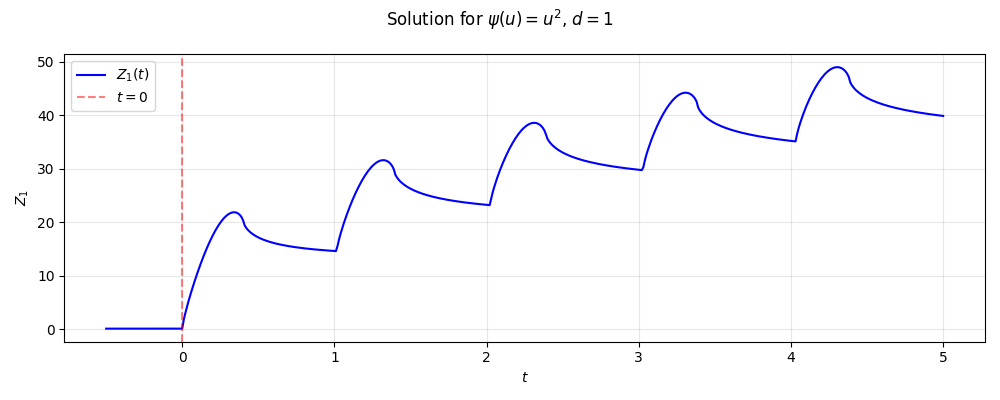
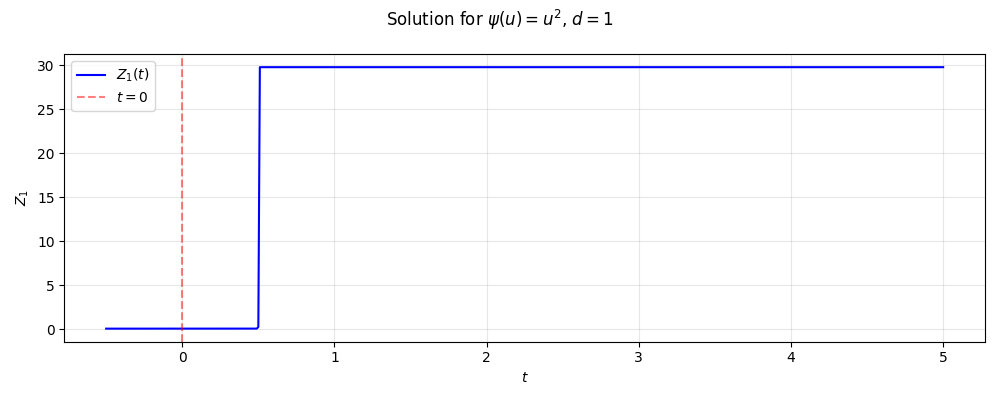
first implementation of local time

diff --git a/residence_time.py b/residence_time.py
@@ -1,6 +1,6 @@
 """
 Solver for the equation:
-    sum_{j>=1} psi'(Z^n - Z^{n-j}) * h = f^n
+h * sum_{j>=1} psi(Z^n - Z^{n-j}) * R_j = f^n
 
 where:
 - Z^n = z_p(n*h) for -N <= n < 0 (initial conditions)
@@ -15,8 +15,7 @@ import numpy as np
 import matplotlib.pyplot as plt
 from scipy.optimize import fsolve
 from typing import Callable, Tuple, Optional
-
-from animation import create_animation
+from tqdm import tqdm
 
 
 class VolterraSolver:
@@ -27,6 +26,8 @@ class VolterraSolver:
     def __init__(
         self,
         h: float,
+        delta_x: float,
+        N_x: int,
         N: int,
         M: int,
         d: int,
@@ -39,7 +40,11 @@ class VolterraSolver:
         Parameters:
         -----------
         h : float
-            Time step
+            Time step # delta_t
+        delta_x : float
+            Space step
+        N_x : int
+            Number of space points
         N : int
             Number of initial points (for n in [-N, 0)) # points for past history
         M : int
@@ -56,6 +61,8 @@ class VolterraSolver:
             Initial condition function z_p(t) for t < 0
         """
         self.h = h
+        self.delta_x = delta_x
+        self.N_x = N_x
         self.N = N
         self.M = M
         self.d = d
@@ -74,26 +81,31 @@ class VolterraSolver:
     def psi(self, u: np.ndarray) -> np.ndarray:
         """
         Nonlinearity psi(u) = u^alpha (component-wise).
+        Handles sign for non-integer alpha.
         """
-        return 0.5*u ** self.alpha
+        if self.alpha == int(self.alpha) and int(self.alpha) % 2 == 1:
+            # Odd integer power: preserve sign
+            return np.sign(u) * np.abs(u) ** self.alpha
+        else:
+            # Even power or non-integer: use absolute value
+            return np.abs(u) ** self.alpha
 
-    def psi_derivative(self, u: np.ndarray) -> np.ndarray:
-        return self.alpha*u**(self.alpha-1)
-    
-    
-    # Toute l'equation à comprendre et modifier est ici
+    # local time ###################################################################
+    def local_time(self, n, z):
+        local_time = 0
+        for i in range(0,n+1): #TODO: pb index, commencer par 1 plutôt ?
+            local_time = local_time + self.h * (i*self.delta_x <= z <= (i+1)*self.delta_x).astype(int)
+        return local_time
+
     def residual(self, Z_n: np.ndarray, n: int) -> np.ndarray:
         """
-        Compute residual: h * sum_{j>=1} psi'(Z^n - Z^{n-j}) * R_j - f^n
+        Compute residual: [Previous: h * sum_{j>=1} psi(Z^n - Z^{n-j}) * R_j - f^n]
         """
         res = np.zeros(self.d)
         
-        # Sum over j from 1 to n+N (all available past values)
-        for j in range(1, n + self.N + 1):
-            if j < len(self.R):
-                idx_prev = n + self.N - j
-                Z_diff = Z_n - self.Z[idx_prev]
-                res += self.h * self.psi_derivative(Z_diff) * self.R[j]
+        for k in range(0, self.N_x):
+            res = res + self.psi(Z_n - k*self.delta_x) * self.local_time(n, Z_n) * self.delta_x
+            # comment intégrer les poids exponentiels ?    #* self.R[j]
         
         # Subtract f^n
         res -= self.f_func(n * self.h)
@@ -128,7 +140,7 @@ class VolterraSolver:
             Solution array (shape: (N+M+1, d))
         """
         # Solve for each time step
-        for n in range(0, self.M + 1):
+        for n in tqdm(range(self.M + 1), desc="Solving steps", unit="step"):
             self.Z[n + self.N] = self.solve_step(n)
             
             if (n + 1) % 100 == 0:
@@ -139,7 +151,7 @@ class VolterraSolver:
         
         return t, self.Z
     
-    def plot_solution(self, t: np.ndarray, Z: np.ndarray):
+    def plot_solution(self, file_name, t: np.ndarray, Z: np.ndarray):
         """
         Plot the solution.
         """
@@ -158,7 +170,7 @@ class VolterraSolver:
         
         plt.suptitle(f'Solution for $\\psi(u) = u^{{{self.alpha}}}$, $d={self.d}$')
         plt.tight_layout()
-        plt.savefig('/home/onyxia/work/EDPMA/residence_time.png')
+        plt.savefig(f'/home/onyxia/work/EDPMA/{file_name}.png')
         plt.show()
 
 # quasi ok niveau compréhension
@@ -213,6 +225,17 @@ def compute_R_exponential(length: int, decay_rate: float = 0.5) -> np.ndarray:
     #R is the density of links (because it works on j spatial position) and not time)
 
 
+def compute_R_power_law(length: int, exponent: float = 1.5) -> np.ndarray:
+    """
+    Compute R_j coefficients with power law decay.
+    R_j = j^(-exponent)
+    """
+    R = np.zeros(length)
+    R[0] = 0  # R_0 is not used
+    for j in range(1, length):
+        R[j] = j ** (-exponent)
+    return R
+
 
 # ============================================================================
 # Main program
@@ -224,7 +247,7 @@ def main():
     """
     print("=" * 70)
     print("Volterra Equation Solver")
-    print("Equation: h * sum_{j>=1} psi'(Z^n - Z^{n-j}) * R_j = f^n")
+    print("Equation: h * sum_{j>=1} psi(Z^n - Z^{n-j}) * R_j = f^n")
     print("=" * 70)
     
     # ========================================================================
@@ -232,7 +255,7 @@ def main():
     # ========================================================================
     
     # Dimension (1 or 2)
-    d = 2
+    d = 1
     
     # Power alpha for psi(u) = u^alpha
     alpha = 2
@@ -240,7 +263,11 @@ def main():
     # Time parameters
     h = 0.01        # Time step
     N = 50          # Number of initial points
-    M = 500         # Number of points to compute
+    M = 50        # Number of points to compute
+
+    # Notre implémentation
+    delta_x = 0.01
+    N_x = 60
     
     # Forcing function choice: 'constant', 'oscillating', or 'random'
     forcing_type = 'oscillating'
@@ -250,14 +277,17 @@ def main():
     f_frequency = 1.0
     f_seed = 42
     
-    # R_j decay type: 
+    # R_j decay type: 'exponential' or 'power_law'
+    R_decay_type = 'power_law'
     decay_rate = 0.5      # For exponential decay
+    power_exponent = 1.5  # For power law decay
     
     # Initial condition amplitude
     z_initial_amplitude = 0.1
     
     # Plot and save options
-    save_filename = "outputs/residence _time"
+    do_plot = True
+    save_filename = "outputs/residence_time"
     
     # ========================================================================
     # Setup based on parameters
@@ -285,8 +315,15 @@ def main():
         f_func = f_constant(d, value=1.0)
     
     # Setup R_j coefficients
-    R = compute_R_exponential(M + N + 10, decay_rate)
-    print(f"  R_j: exponential decay, rate = {decay_rate}")
+    if R_decay_type == 'exponential':
+        R = compute_R_exponential(M + N + 10, decay_rate)
+        print(f"  R_j: exponential decay, rate = {decay_rate}")
+    elif R_decay_type == 'power_law':
+        R = compute_R_power_law(M + N + 10, power_exponent)
+        print(f"  R_j: power law decay, exponent = {power_exponent}")
+    else:
+        print(f"  Warning: Unknown R decay type '{R_decay_type}', using exponential")
+        R = compute_R_exponential(M + N + 10, 0.5)
     
     # Setup initial conditions
     z_initial = z_initial_default(d, amplitude=z_initial_amplitude)
@@ -301,6 +338,8 @@ def main():
     
     solver = VolterraSolver(
         h=h,
+        delta_x = delta_x,
+        N_x = N_x,
         N=N,
         M=M,
         d=d,
@@ -316,27 +355,18 @@ def main():
     print(f"Final value Z^{M}: {Z[-1]}")
     
     # ========================================================================
-    # Plot and save
+    # Plot
     # ========================================================================
     
-    solver.plot_solution(t, Z)
+    if do_plot:
+        print("\nPlotting solution...")
+        solver.plot_solution(save_filename, t, Z)
+    
+    # Save results
     np.savez(f"{save_filename}.npz", t=t, Z=Z, alpha=alpha, d=d, h=h, N=N, M=M)
+    print(f"Results saved to {save_filename}.npz")
+    
 
-    
-    print("=" * 70)
-    print("White Blood Cell Adhesion Animation")
-    print("Using Volterra Equation for Cell Dynamics")
-    print("=" * 70)
-    
-    print("\nCreating animation...")
-    fig, anim = create_animation(t, Z, h, N)
-        
-    print("Saving as GIF...")
-    anim.save('outputs/white_cell_adhesion.gif', writer='pillow', fps=20)
-    
-    plt.tight_layout()
-    plt.show()
-    
 
 
 if __name__ == "__main__":
